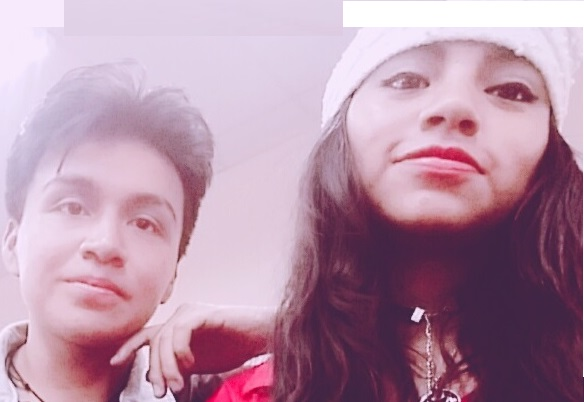
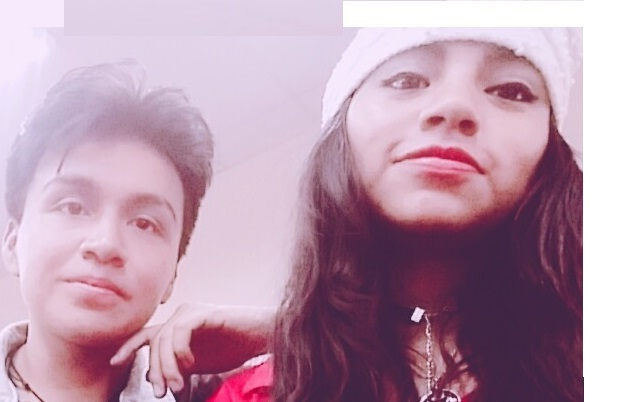
change jime about

diff --git a/index.html b/index.html
@@ -90,7 +90,7 @@
 
         <div class="row">
           <div class="col-lg-4" data-aos="fade-right">
-            <img src="assets/img/jime.jpg" class="img-fluid" alt="">
+            <img src="assets/img/jime.png" class="img-fluid" alt="">
           </div>
           <div class="col-lg-8 pt-4 pt-lg-0 content" data-aos="fade-left">
             <h3>UI/UX Designer &amp; Web Developer.</h3>
